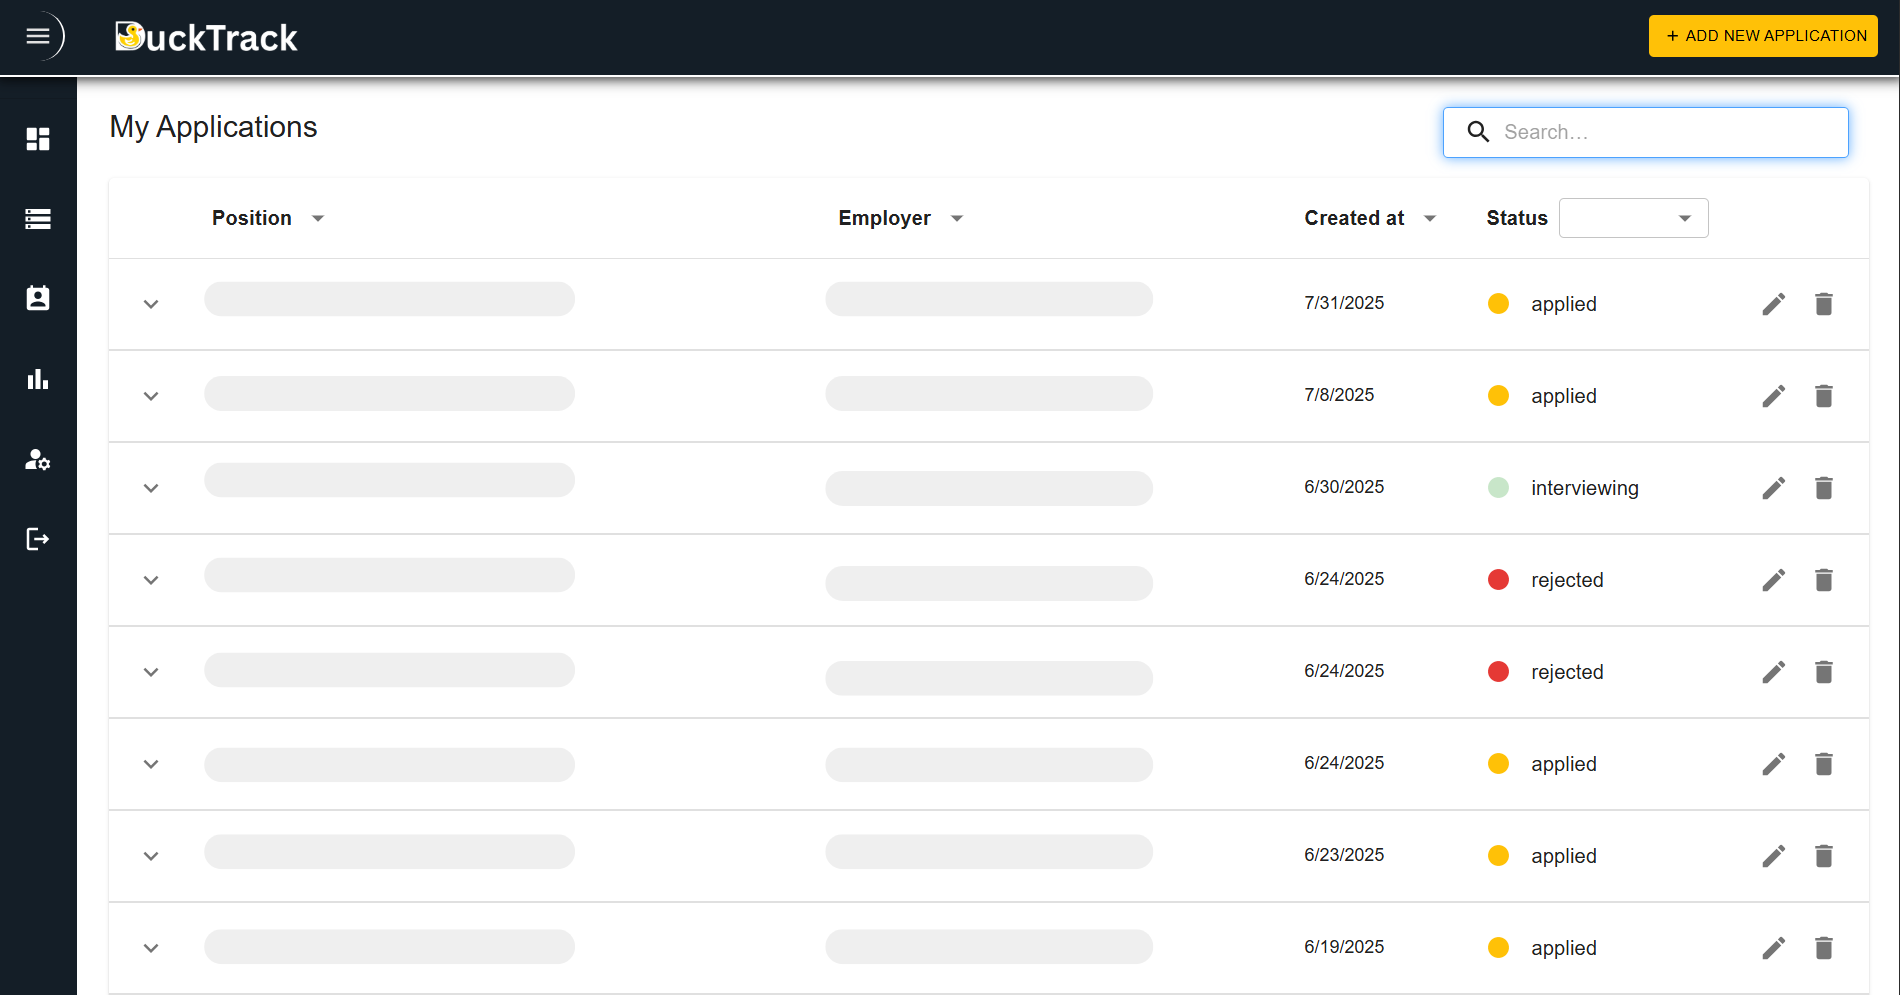
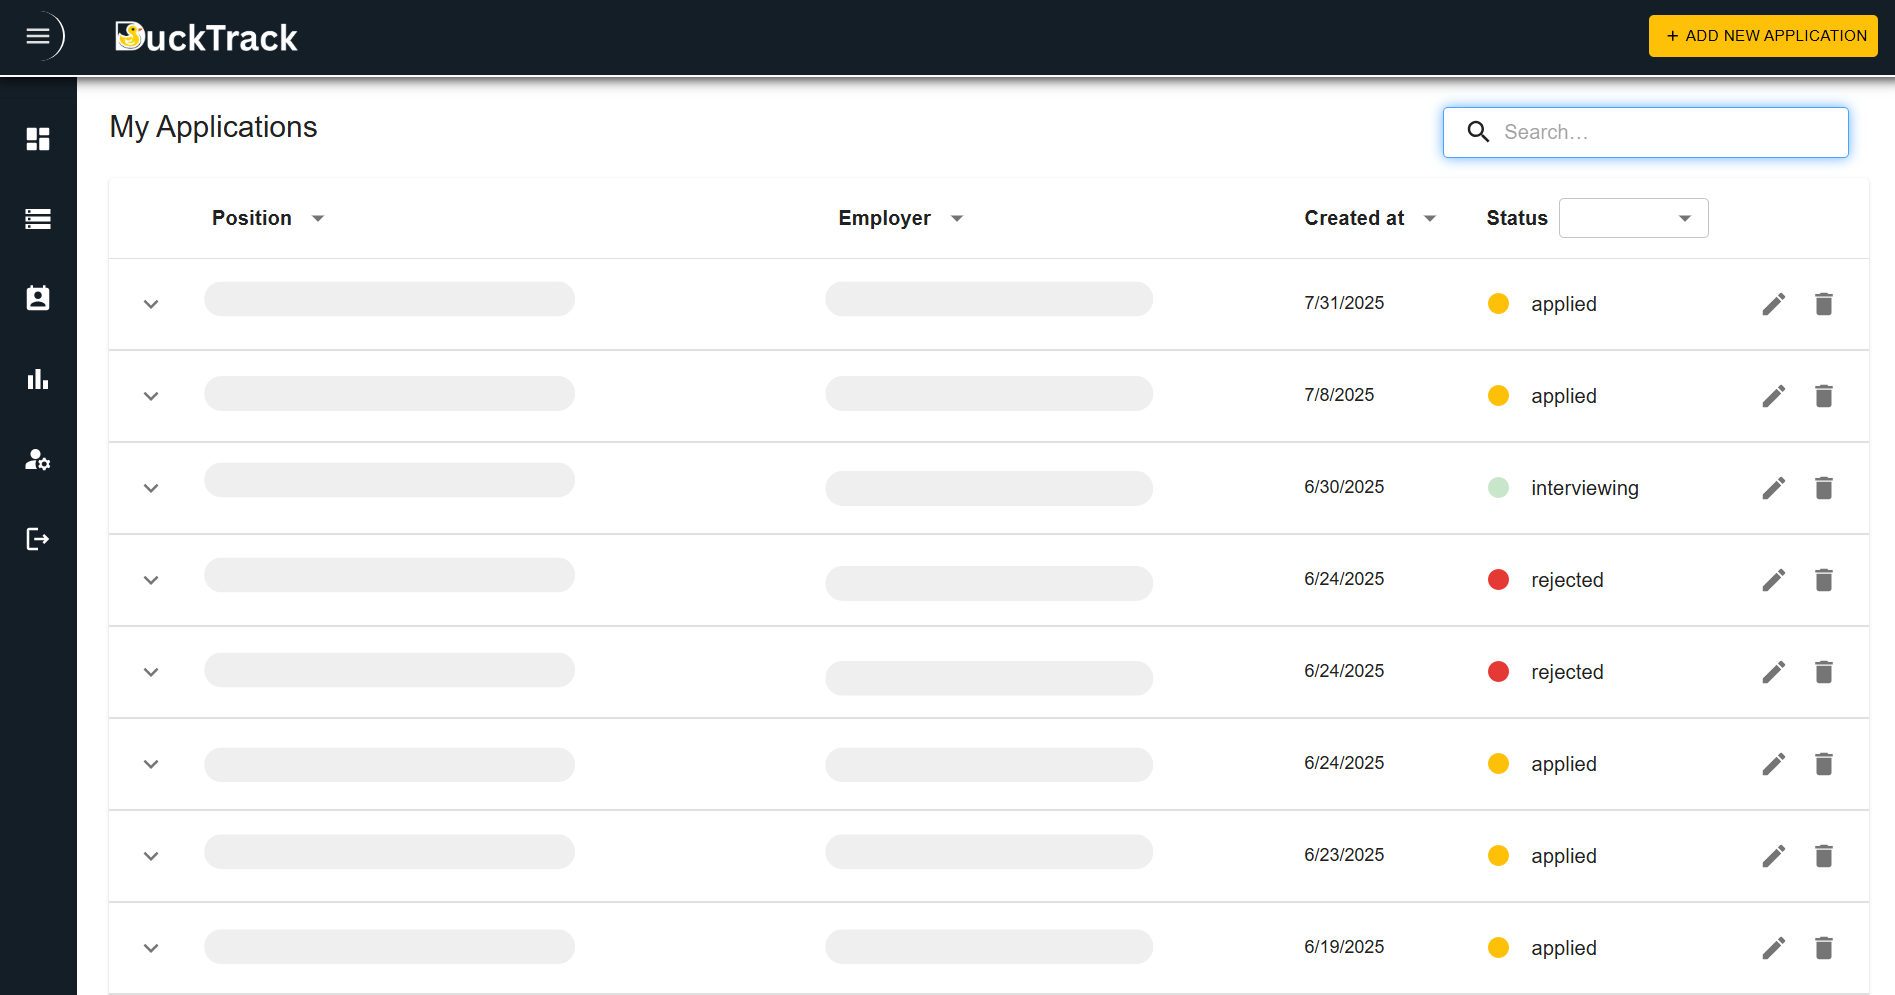
make session storage related chages, plus visual changes for landing page

diff --git a/src/components/LandingPage/LandingPagePart6.jsx b/src/components/LandingPage/LandingPagePart6.jsx
@@ -15,18 +15,15 @@ const LandingPagePart6 = ({ contactSectionRef }) => {
   useEffect(() => {
     const slider = sliderRef.current;
 
-    const totalWidth = slider.scrollWidth / 2;
+    gsap.set(slider, { xPercent: -50 });
 
-    const animation = gsap.fromTo(
-      slider,
-      { x: -totalWidth },
-      {
-        x: 0,
-        duration: 80,
-        ease: "linear",
-        repeat: -1,
-      }
-    );
+    const animation = gsap.to(slider, {
+      xPercent: 0,
+      duration: 80,
+      ease: "linear",
+      repeat: -1,
+      force3D: true,
+    });
 
     return () => {
       animation.kill();
@@ -41,15 +38,7 @@ const LandingPagePart6 = ({ contactSectionRef }) => {
           width: "100%",
           position: "relative",
           backgroundColor: "#f9f9f9",
-          background: "blur",
-          height: { xs: "auto", md: "auto" },
-          minHeight: { xs: "unset", md: "unset" },
-        }}
-      >
-        <Box
-          ref={sliderRef}
-          sx={{
-            backgroundImage: `linear-gradient(
+          backgroundImage: `linear-gradient(
           to bottom,
           rgba(255, 255, 255, 0.6) 0%,
           rgba(255, 255, 255, 0.6) 60%,
@@ -58,13 +47,22 @@ const LandingPagePart6 = ({ contactSectionRef }) => {
           rgba(77, 166, 255, 0.6) 90%,
           rgba(26, 95, 180, 0.6) 100%
         )`,
-            backgroundRepeat: "no-repeat",
-            backgroundSize: "100% 100%",
-            backdropFilter: "blur(10px)",
-            WebkitBackdropFilter: "blur(10px)",
+          backgroundRepeat: "no-repeat",
+          backgroundSize: "100% 100%",
+          backdropFilter: "blur(10px)",
+          WebkitBackdropFilter: "blur(10px)",
+          height: { xs: "auto", md: "auto" },
+          minHeight: { xs: "unset", md: "unset" },
+          mb: "-2px",
+        }}
+      >
+        <Box
+          ref={sliderRef}
+          sx={{
             display: "flex",
             gap: { xs: 4, md: 8 },
             width: "max-content",
+            willChange: "transform",
           }}
         >
           {[...Array(2)].flatMap((_, groupIndex) =>

diff --git a/src/components/EditApplicationTable.jsx b/src/components/EditApplicationTable.jsx
@@ -85,7 +85,8 @@ const EditApplicationTable = () => {
     const fetchApplicationInfo = async () => {
       try {
         let response = await fetch(
-          `${import.meta.env.VITE_BACKEND_URL}/my-applications/${id}`
+          `${import.meta.env.VITE_BACKEND_URL}/my-applications/${id}`,
+          { credentials: "include" }
         );
         if (!response.ok) throw Error("URL does not exist!");
 
@@ -198,6 +199,7 @@ const EditApplicationTable = () => {
         `${import.meta.env.VITE_BACKEND_URL}/my-applications/${id}`,
         {
           method: "PATCH",
+          credentials: "include",
           body: JSON.stringify({
             ...formData,
             employment_type: resolvedEmploymentType, // ✅ send resolved value
@@ -243,6 +245,7 @@ const EditApplicationTable = () => {
     try {
       const interviewRes = await fetch(`${import.meta.env.VITE_BACKEND_URL}/interviews`, {
         method: "POST",
+        credentials: "include",
         headers: { "Content-Type": "application/json" },
         body: JSON.stringify({
           application_id: id,
@@ -261,6 +264,7 @@ const EditApplicationTable = () => {
         `${import.meta.env.VITE_BACKEND_URL}/my-applications/${id}`,
         {
           method: "PATCH",
+          credentials: "include",
           headers: { "Content-Type": "application/json" },
           body: JSON.stringify({ ...formData, status: "interviewing" }),
         }

diff --git a/src/components/EditProfilePage.jsx b/src/components/EditProfilePage.jsx
@@ -85,7 +85,8 @@ const EditProfilePage = () => {
       const fetchUserData = async () => {
         try {
           const response = await fetch(
-            `${import.meta.env.VITE_BACKEND_URL}/get-user/${user.user_id}`
+            `${import.meta.env.VITE_BACKEND_URL}/get-user/${user.user_id}`,
+            { credentials: "include" }
           );
           if (response.ok) {
             const data = await response.json();
@@ -252,12 +253,12 @@ const EditProfilePage = () => {
     try {
       const response = await fetch(`${import.meta.env.VITE_BACKEND_URL}/update-profile`, {
         method: "PATCH",
+        credentials: "include",
         headers: { "Content-Type": "application/json" },
         body: JSON.stringify({
           firstName,
           lastName,
           gender,
-          user_id: user.user_id,
           autoGhostEnabled: checked,
           ...(isChangingPassword && {
             currentPassword,

diff --git a/src/components/MyApplicationsTable.jsx b/src/components/MyApplicationsTable.jsx
@@ -71,6 +71,7 @@ function Row({ row, fetchApplications }) {
         `${import.meta.env.VITE_BACKEND_URL}/my-applications/${deleteId}`,
         {
           method: "DELETE",
+          credentials: "include",
         }
       );
 
@@ -358,7 +359,8 @@ export default function MyApplicationsTable({ searchInput }) {
     setIsLoading(true);
     try {
       const response = await fetch(
-        `${import.meta.env.VITE_BACKEND_URL}/my-applications?user_id=${user.user_id}&search=${searchInput}&sort=${sortColumn}&order=${sortOrder}&status=${statusFilter}`
+        `${import.meta.env.VITE_BACKEND_URL}/my-applications?search=${searchInput}&sort=${sortColumn}&order=${sortOrder}&status=${statusFilter}`,
+        { credentials: "include" }
       );
 
       if (!response.ok) {

diff --git a/src/components/OverviewBoard.jsx b/src/components/OverviewBoard.jsx
@@ -19,7 +19,8 @@ const OverviewBoard = () => {
       if (user) {
         try {
           const response = await fetch(
-            `${import.meta.env.VITE_BACKEND_URL}/my-applications?user_id=${userId}`
+            `${import.meta.env.VITE_BACKEND_URL}/my-applications`,
+            { credentials: "include" }
           );
           if (!response.ok) {
             throw new Error(`Error: ${response.statusText}`);

diff --git a/src/components/Charts.jsx b/src/components/Charts.jsx
@@ -45,7 +45,8 @@ const Charts = () => {
     const fetchApplications = async () => {
       try {
         const response = await fetch(
-          `${import.meta.env.VITE_BACKEND_URL}/my-applications?user_id=${user.user_id}`
+          `${import.meta.env.VITE_BACKEND_URL}/my-applications`,
+          { credentials: "include" }
         );
         if (!response.ok) throw new Error("Failed to fetch applications");
 

diff --git a/src/components/Homepage.jsx b/src/components/Homepage.jsx
@@ -36,7 +36,8 @@ const Homepage = () => {
       if (user) {
         try {
           const response = await fetch(
-            `${import.meta.env.VITE_BACKEND_URL}/my-applications?user_id=${userId}`
+            `${import.meta.env.VITE_BACKEND_URL}/my-applications`,
+            { credentials: "include" }
           );
           if (!response.ok) {
             throw new Error(`Error: ${response.statusText}`);

diff --git a/src/components/LandingPage/LandingPagePart1.jsx b/src/components/LandingPage/LandingPagePart1.jsx
@@ -210,7 +210,7 @@ const LandingPagePart1 = ({
                 open={open}
                 onClose={handleClose}
                 onClick={handleClose}
-                disableScrollLock = {false}
+                disableScrollLock
                 sx={{position: "absolute"}}
                 slotProps={{
                   paper: {

diff --git a/src/components/NewApplicationForm.jsx b/src/components/NewApplicationForm.jsx
@@ -82,6 +82,7 @@ const NewApplicationForm = () => {
     try {
       const response = await fetch(`${import.meta.env.VITE_BACKEND_URL}/new-application`, {
         method: "POST",
+        credentials: "include",
         headers: {
           "Content-Type": "application/json",
         },
